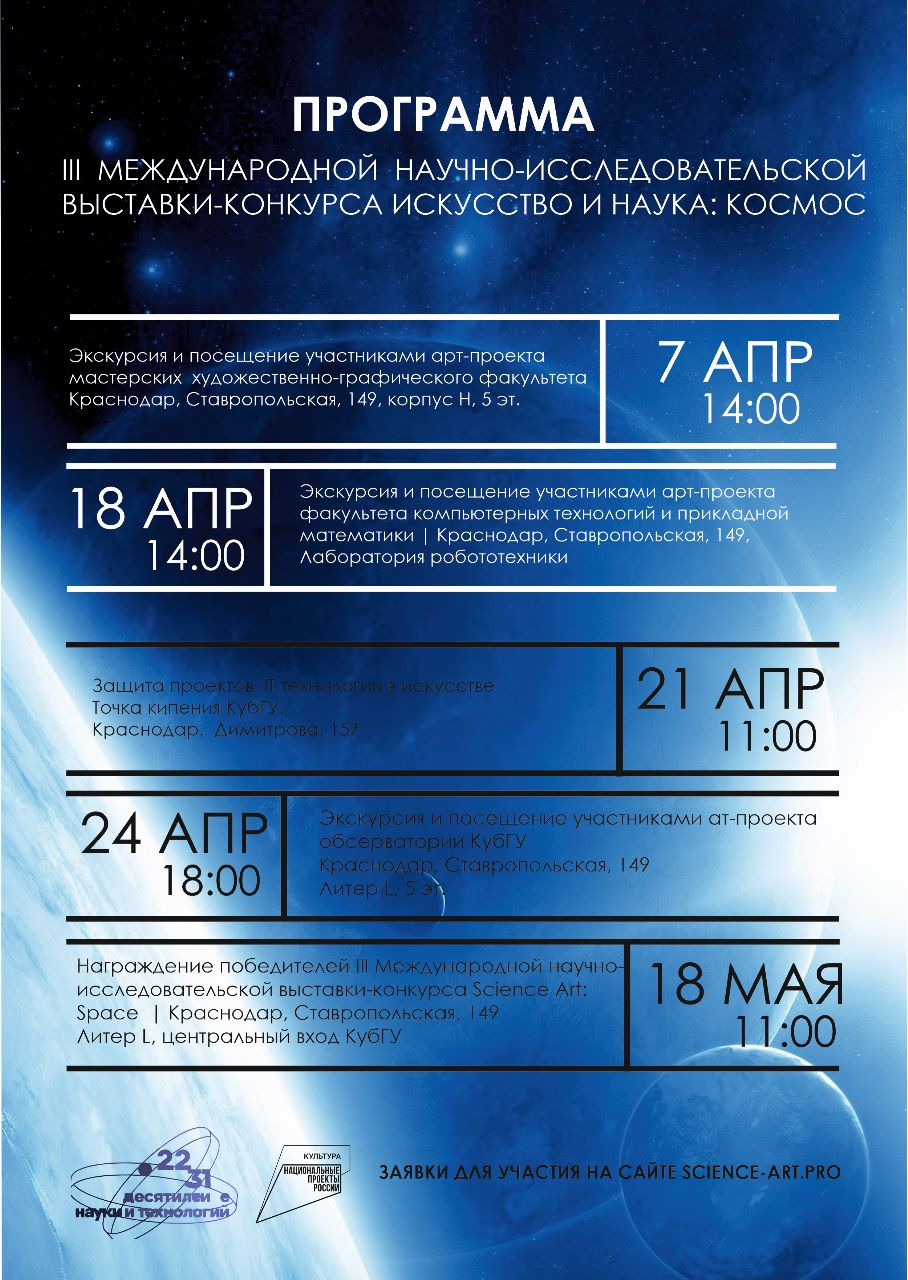
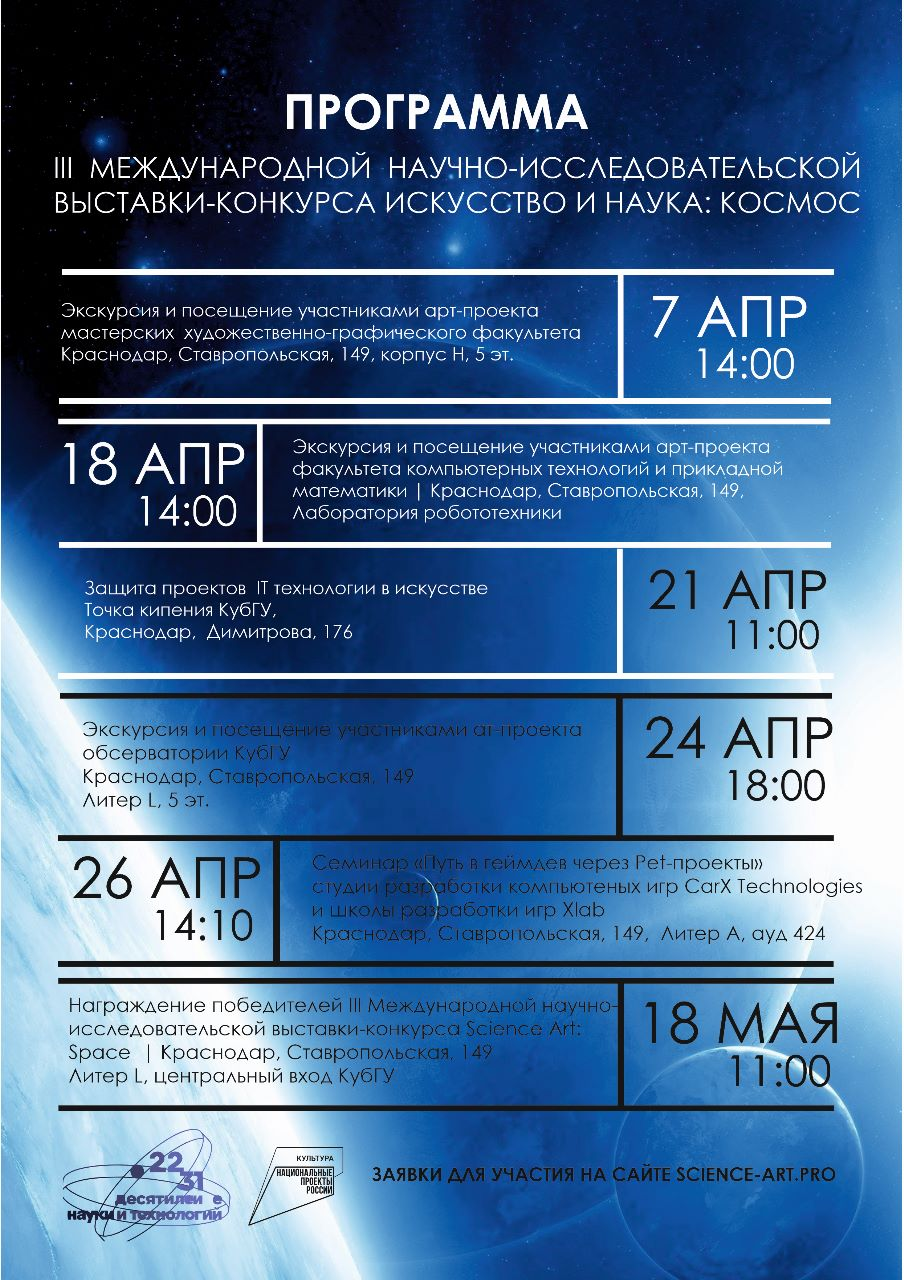
Правки

Changed region(s): [[0.0, 0.0625, 0.9602, 1.0], [0.9912, 0.0, 1.0, 0.4688], [0.9912, 0.75, 1.0, 1.0]]

diff --git a/lib/model/models.dart b/lib/model/models.dart
@@ -83,6 +83,8 @@ class Expert {
 
 var partners = [
   Partner(
+      '8', 'Студия разработки компьютерных игр CarХ Technologies и школа разработки игр Xlab', 'assets/partners/carx.jpg'),
+  Partner(
       '1', 'ООО "ARТЕЛЬ DIGITAL"', 'assets/partners/IMG-20230323-WA0017.jpg'),
   Partner('2', 'ООО "Экстраверт"', 'assets/partners/IMG-20230331-WA0032.jpg'),
   Partner(
@@ -192,6 +194,8 @@ var experts = [
       'assets/experts/zolotarev.jpg'),
   Expert('18', 'Зыкова Е.В.', 'Управляющий партнёр «ARTEЛЬ DIGITAL»',
       'assets/experts/zikova.jpg'),
+  Expert('19', 'Корнев Андрей', 'Графический дизайнер, руководитель и владелец бюро дизайна "Kornev_Design", председатель Ульяновского регионального отделения Союза дизайнеров России.',
+      'assets/experts/kornev.png'),
 ];
 
 class User {

diff --git a/lib/pages/home/home_page.dart b/lib/pages/home/home_page.dart
@@ -67,7 +67,7 @@ class _HomePageState extends State<HomePage> {
                     const HeaderWidget(),
                     SizedBox(height: mediaQuery.size.width / 15),
                     Text(
-                      'III МЕЖДУНАРОДНАЯ НАУЧНО-ИССЛЕДОВАТЕЛЬКАЯ ВЫСТАВКА-КОНКУРС ИСКУССТВО И НАУКА: КОСМОС',
+                      'III МЕЖДУНАРОДНАЯ НАУЧНО-ИССЛЕДОВАТЕЛЬСКАЯ ВЫСТАВКА-КОНКУРС ИСКУССТВО И НАУКА: КОСМОС',
                       style: TextStyle(
                           fontSize: MediaQuery.of(context).size.width / 30,
                           fontWeight: FontWeight.w600),
